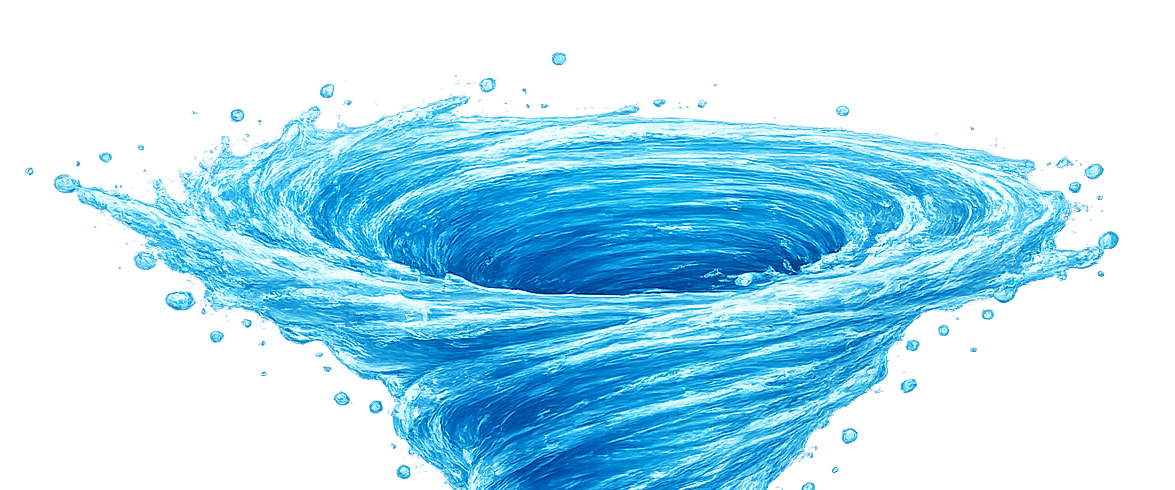
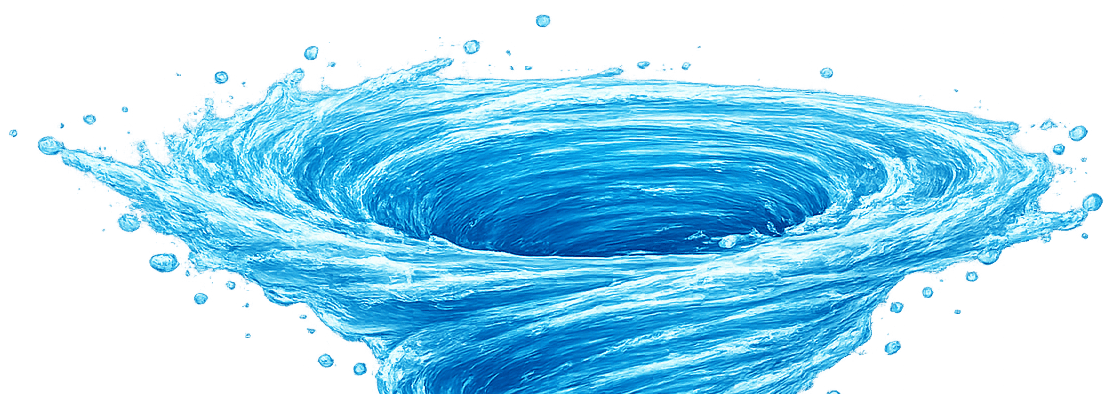
ya alla

diff --git a/src/app/components/RaceScreen.tsx b/src/app/components/RaceScreen.tsx
@@ -307,7 +307,7 @@ export function RaceScreen({ level, onGameOver, onBack }: RaceScreenProps) {
   const [fuelPenaltyFeedbacks, setFuelPenaltyFeedbacks] = useState<FuelPenaltyFeedback[]>([]);
   const [laneIndicator, setLaneIndicator] = useState<'left' | 'right' | null>(null);
   const [scrollOffset, setScrollOffset] = useState(0);
-
+const [waveTimer, setWaveTimer] = useState(0); // 👈 السطر الجديد
   const frameRef = useRef(0);
   const lastTimeRef = useRef(performance.now());
   const distanceRef = useRef(0);
@@ -694,8 +694,15 @@ export function RaceScreen({ level, onGameOver, onBack }: RaceScreenProps) {
           const isLevel4 = level.id === 'level_4' || level.id === '4';
           if (isLevel4) {
             waveEventTimerRef.current += deltaSeconds;
-            if (!waveEventActiveRef.current && waveEventTimerRef.current >= 4) {
+            
+            // 1. دورة الموجة كل 3 ثواني بالظبط
+            if (waveEventTimerRef.current >= 3.0) {
               waveEventTimerRef.current = 0;
+              waveEventActiveRef.current = false;
+            }
+
+            // 2. الموجة بتاخد ثانيتين عشان توصل للفلك.. أول ما توصل نضرب الفلك!
+            if (waveEventTimerRef.current >= 2.0 && !waveEventActiveRef.current) {
               waveEventActiveRef.current = true;
               waveEventProgressRef.current = 0;
               waveEventDirectionRef.current = Math.random() < 0.5 ? -1 : 1;
@@ -705,34 +712,32 @@ export function RaceScreen({ level, onGameOver, onBack }: RaceScreenProps) {
             if (waveEventActiveRef.current) {
               waveEventProgressRef.current += deltaSeconds;
               const duration = waveEventPatternRef.current === 'cycle' ? 1.0 : 0.8;
-              const normalized = Math.min(1, waveEventProgressRef.current / duration);
-              const impact = Math.sin(normalized * Math.PI);
-              const sway = 0.08;
-              const roll = 8;
+              
+              if (waveEventProgressRef.current <= duration) {
+                const normalized = waveEventProgressRef.current / duration;
+                const impact = Math.sin(normalized * Math.PI);
+                const sway = 0.1; // 👈 التعديل: قوة الهزة بقت 0.09 زي ما طلبت
+                const roll = 8;
 
-              if (waveEventPatternRef.current === 'single') {
-                boatWaveRef.current = impact * sway * waveEventDirectionRef.current;
-                boatRollRef.current = impact * roll * waveEventDirectionRef.current;
+                if (waveEventPatternRef.current === 'single') {
+                  boatWaveRef.current = impact * sway * waveEventDirectionRef.current;
+                  boatRollRef.current = impact * roll * waveEventDirectionRef.current;
+                } else {
+                  boatWaveRef.current = Math.sin(normalized * Math.PI * 2) * sway * waveEventDirectionRef.current;
+                  boatRollRef.current = Math.sin(normalized * Math.PI * 2) * roll * waveEventDirectionRef.current;
+                }
+                boatBounceRef.current = impact * 1.8;
               } else {
-                boatWaveRef.current = Math.sin(normalized * Math.PI * 2) * sway * waveEventDirectionRef.current;
-                boatRollRef.current = Math.sin(normalized * Math.PI * 2) * roll * waveEventDirectionRef.current;
-              }
-
-              boatBounceRef.current = impact * 1.8;
-              if (normalized >= 1) {
-                waveEventActiveRef.current = false;
+                // لما الموجة تخلص تأثيرها
                 boatWaveRef.current = 0;
                 boatBounceRef.current = 0;
                 boatRollRef.current = 0;
               }
+            } else {
+              boatWaveRef.current = 0;
+              boatBounceRef.current = 0;
+              boatRollRef.current = 0;
             }
-          } else {
-            waveEventTimerRef.current = 0;
-            waveEventActiveRef.current = false;
-            waveEventProgressRef.current = 0;
-            boatWaveRef.current = 0;
-            boatBounceRef.current = 0;
-            boatRollRef.current = 0;
           }
 
           // 🌀 ── قوة سحب الدوامة (لليفل 1 فقط) ── 🌀
@@ -1036,6 +1041,7 @@ export function RaceScreen({ level, onGameOver, onBack }: RaceScreenProps) {
         } else if (isFreeMode) {
           setPlayerX(playerXRef.current);
           setWakeParticles([...wakeParticlesRef.current]);
+          setWaveTimer(waveEventTimerRef.current); // 👈 السطر الجديد ده عشان نربط الموجة بالشاشة
         }
       }
 
@@ -1544,25 +1550,52 @@ export function RaceScreen({ level, onGameOver, onBack }: RaceScreenProps) {
                     />
                   );
                 })}
-                {isNoahLevel && [0.22, 0.45, 0.64, 0.83].map((tWave, wi) => {
-                  const tAnim = ((tWave + scrollOffset * 0.0035) % 0.9) + 0.08;
-                  const y = yAtT(tAnim);
-                  const leftX = riverXAtT(0.15, tAnim);
-                  const rightX = riverXAtT(0.85, tAnim);
-                  const width = rightX - leftX;
-                  const amp = 0.35 + wi * 0.1;
-                  return (
-                    <path
-                      key={`crest${wi}`}
-                      d={`M ${leftX} ${y} C ${leftX + width * 0.18} ${y - amp}, ${leftX + width * 0.4} ${y + amp * 0.6}, ${leftX + width * 0.55} ${y} S ${rightX - width * 0.18} ${y - amp * 0.5}, ${rightX} ${y}`}
-                      fill="none"
-                      stroke="#F7FFFF"
-                      strokeWidth={0.35 + tAnim * 0.26}
-                      opacity={0.18 + tAnim * 0.14}
-                      strokeLinecap="round"
-                    />
-                  );
-                })}
+                {/* 🌊 ── الموجة الضخمة المتزامنة (لليفل 4 بس) ── 🌊 */}
+                {isNoahLevel && (
+                  <g>
+                    {(() => {
+                      const tAnim = waveTimer / 2.0; 
+                      
+                      if (tAnim > 0.02 && tAnim < 1.2) {
+                        const y = yAtT(tAnim);
+                        
+                        // 👇 1. تعديل عرض الموجة (عشان تاخد البحر كله)
+                        const leftX = riverXAtT(0.02, tAnim);  // 👈 0.0 يعني من أقصى حافة الشمال
+                        const rightX = riverXAtT(0.98, tAnim); // 👈 1.0 يعني لأقصى حافة اليمين
+                        const width = rightX - leftX;
+                        
+                        const amp = 0.8 + Math.pow(tAnim, 1.8) * 5.5; 
+                        
+                        return (
+                          <g opacity={Math.min(1, tAnim * 5, (1.2 - tAnim) * 5)}>
+                            {/* 👇 2. تعديل ظل الموجة (قللنا الشفافية عشان ميبقاش تقيل ومقفل) */}
+                            <path
+                              d={`M ${leftX} ${y} Q ${leftX + width/2} ${y + amp * 0.8} ${rightX} ${y} L ${rightX} ${y+3} Q ${leftX + width/2} ${y + amp * 0.8 + 3} ${leftX} ${y+3} Z`}
+                              fill="#031A38"
+                              opacity="0.15" // 👈 التعديل هنا: قللنا الظل لـ 0.15 بدل 0.4
+                            />
+                            {/* جسم الموجة نفسه */}
+                            <path
+                              d={`M ${leftX} ${y} Q ${leftX + width/2} ${y - amp} ${rightX} ${y} Q ${leftX + width/2} ${y + amp * 0.5} ${leftX} ${y} Z`}
+                              fill="#0B6F86"
+                              opacity="0.6"
+                            />
+                            {/* الرغوة البيضا فوق الموجة */}
+                            <path
+                              d={`M ${leftX + width * 0.02} ${y - amp * 0.1} Q ${leftX + width/2} ${y - amp * 1.2} ${rightX - width * 0.02} ${y - amp * 0.1}`}
+                              fill="none"
+                              stroke="#D8F8F5"
+                              strokeWidth={0.8 + tAnim * 1.5}
+                              strokeLinecap="round"
+                              opacity="0.75"
+                            />
+                          </g>
+                        );
+                      }
+                      return null;
+                    })()}
+                  </g>
+                )}
 
                 {/* ── Water ripple lines (animated with scrollOffset) ── */}
                 {[0.2, 0.35, 0.52, 0.68, 0.82].map((tRipple, ri) => {
@@ -1932,18 +1965,28 @@ export function RaceScreen({ level, onGameOver, onBack }: RaceScreenProps) {
                             opacity="0.75" /* قللنا الشفافية سنة عشان تشرب من لون البحر اللي تحتها */
                             style={{ 
                               // الفلتر ده بيغمقها ويقلب لونها للأزرق الغامق بتاع البحر
-                              filter: 'hue-rotate(15deg) saturate(0.8) brightness(0.75) contrast(1.2)' 
+                              filter: 'hue-rotate(15deg) saturate(0.8) brightness(0.70) contrast(1.2)' 
                             }}
                           />
                         </g>
-                      ) : isRock ? (
-                        /* ================= تصميم الصخرة ================= */
-                        <>
-                          <ellipse cx="0" cy={s * 0.1} rx={s * 1} ry={s * 0.25} fill="none" stroke="white" strokeWidth={s * 0.08} opacity="0.5" />
-                          <ellipse cx="0" cy={s * 0.1} rx={s * 1.4} ry={s * 0.35} fill="none" stroke="white" strokeWidth={s * 0.04} opacity="0.25" />
-                          <ellipse cx="0" cy={s * 0.1} rx={s * 0.8} ry={s * 0.2} fill="#0A2E6C" opacity="0.4" />
+                     ) : isRock ? (
+                        /* ================= تصميم الصخرة (موجات حية) ================= */
+                        <g>
+                          {/* 1. موجات المياه المتحركة (Ripples) اللي بتوسع حوالين الصخرة */}
+                          <g style={{ transformOrigin: '0px 0px' }}>
+                            <ellipse cx="0" cy={s * 0.1} rx={s * 0.9} ry={s * 0.25} fill="none" stroke="#D8F8F5" strokeWidth={s * 0.05} style={{ animation: 'rockRipple 2s linear infinite' }} />
+                            <ellipse cx="0" cy={s * 0.1} rx={s * 0.9} ry={s * 0.25} fill="none" stroke="#D8F8F5" strokeWidth={s * 0.05} style={{ animation: 'rockRipple 2s linear infinite 1s' }} />
+                          </g>
+
+                          {/* 2. ظل غامق تحت الصخرة يثبتها في الأرض */}
+                          <ellipse cx="0" cy={s * 0.1} rx={s * 0.8} ry={s * 0.2} fill="#0A2E6C" opacity="0.6" />
+                          
+                          {/* 3. صورة الصخرة */}
                           <image href={imgSrc} x={-s * 0.9} y={-s * 1.0} width={s * 1.8} height={s * 1.8} preserveAspectRatio="xMidYMid meet" />
-                        </>
+                          
+                          {/* 4. رشة مياه ثابتة قدام الصخرة تدي إحساس إن تيار الماية بيخبط فيها */}
+                          <path d={`M ${-s * 0.4} ${s * 0.15} Q 0 ${s * 0.3} ${s * 0.4} ${s * 0.15}`} fill="none" stroke="white" strokeWidth={s * 0.06} strokeLinecap="round" opacity="0.5" />
+                        </g>
                       ) : (
                         /* ================= تصميم جذع الشجرة ================= */
                         <g style={{ animation: 'boatBobbing 3s ease-in-out infinite' }}>
@@ -2676,7 +2719,12 @@ export function RaceScreen({ level, onGameOver, onBack }: RaceScreenProps) {
           to { transform: rotate(360deg); }
         }
           }
-      `}</style>
+     @keyframes rockRipple {
+          0% { transform: scale(0.8); opacity: 0.6; }
+          100% { transform: scale(1.8); opacity: 0; }
+        }
+
+     `}</style>
     </div>
   );
 }